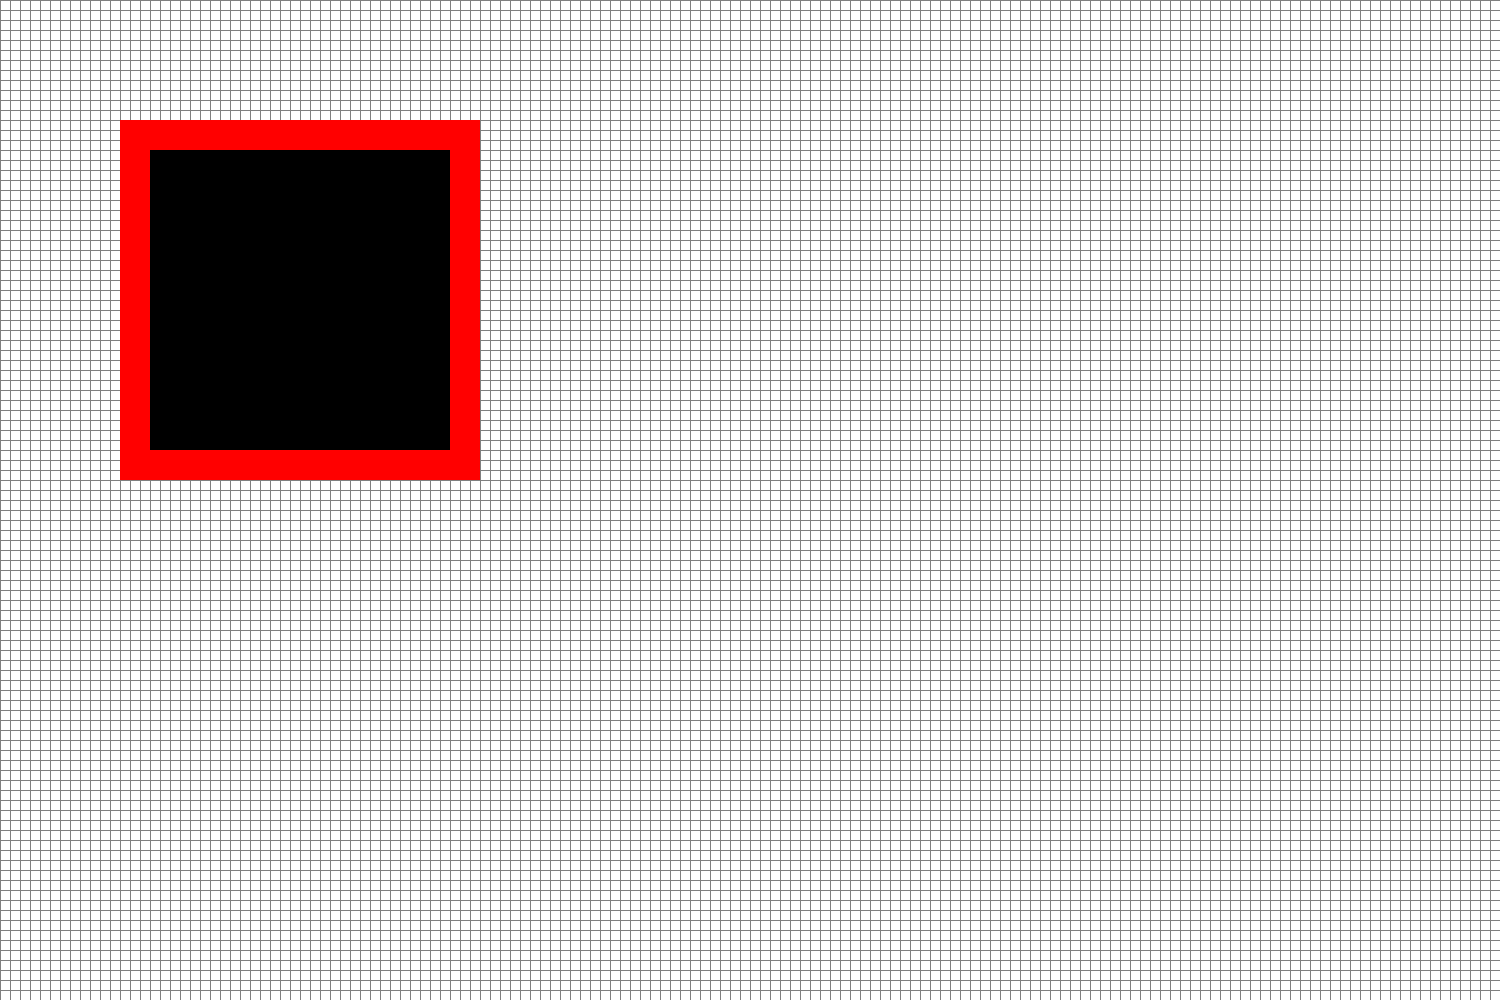
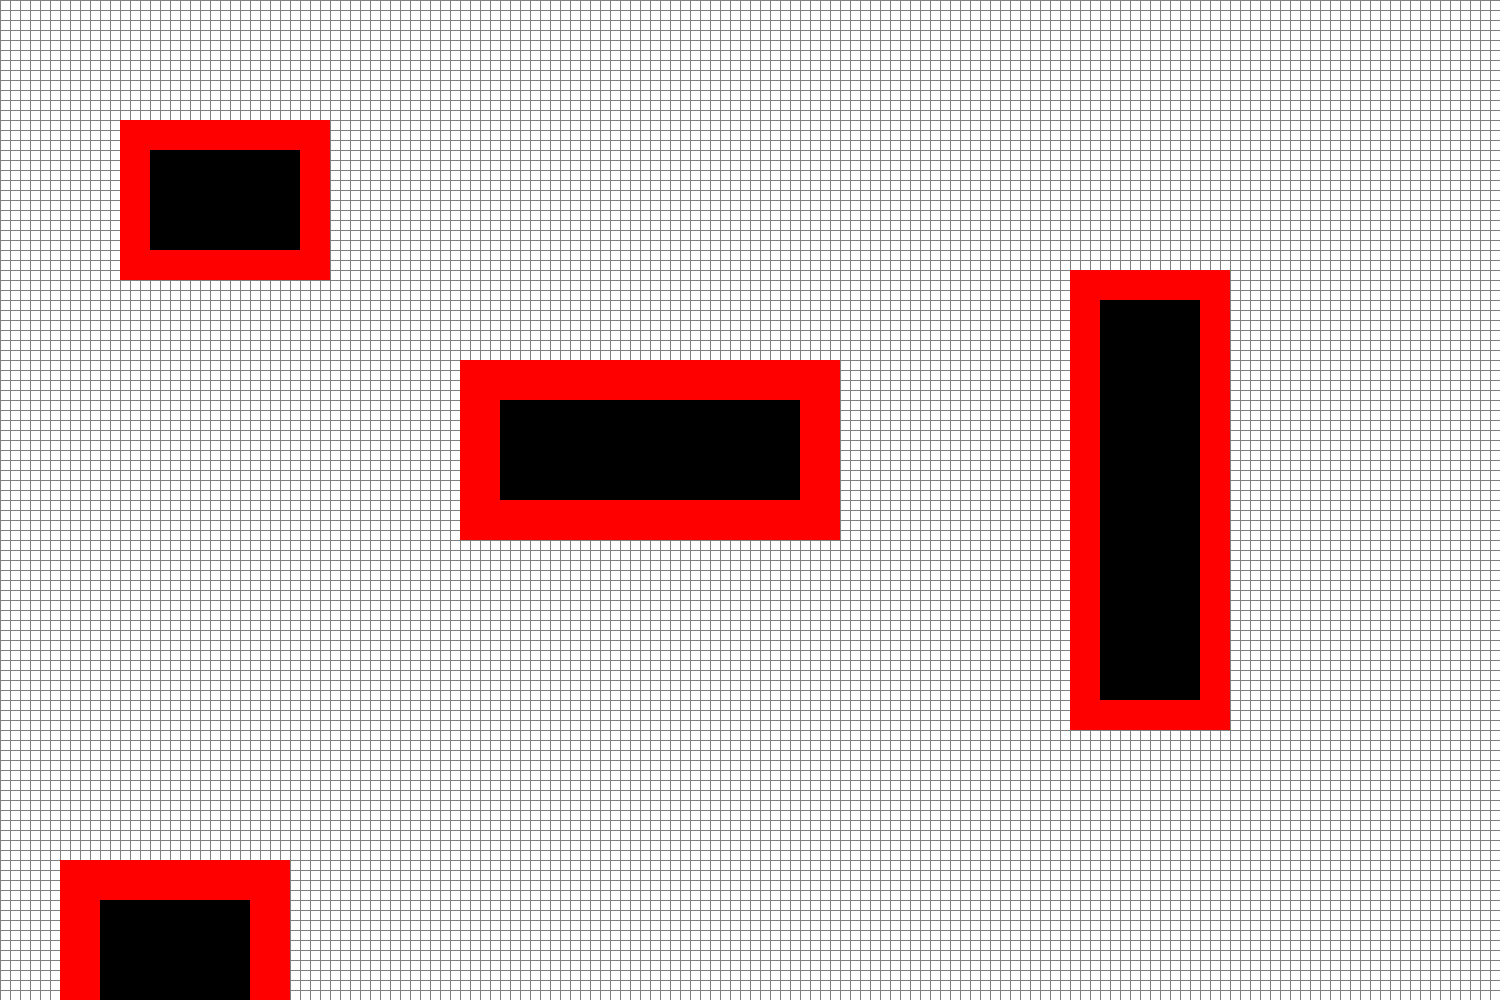
import motion_planner fixed

Changed region(s): [[0.0613, 0.093, 0.5827, 0.558], [0.7053, 0.248, 0.828, 0.744], [0.0307, 0.837, 0.2147, 1.0]]

diff --git a/gcs/motion_planning/motion_planner.py b/gcs/motion_planning/motion_planner.py
@@ -4,13 +4,18 @@ import heapq
 import sys
 import numpy as np
 from scipy.spatial import KDTree
-from gridmap import GridMap, CELL_SIZE, OFFSET
+if __name__ == "__main__":
+    from gridmap import GridMap, CELL_SIZE, OFFSET
+    from utils import timeit
+else:
+    from .gridmap import GridMap, CELL_SIZE, OFFSET
+    from .utils import timeit
 
 NODE_GEN_PRM = 0
 NODE_GEN_RRT = 1
 
 
-class MotionPlanning:
+class MotionPlanner:
 
     def __init__(self, gridmap):
         self.gridmap = gridmap
@@ -138,6 +143,7 @@ class MotionPlanning:
         self.graph = (self.nodes, self.edges)
         return self.graph
 
+    @timeit
     def bfs(self, start, goal):
         start, goal = tuple(start), tuple(goal)
         queue = [start]
@@ -163,6 +169,7 @@ class MotionPlanning:
             total_path.append(current)
         return total_path[::-1]
 
+    @timeit
     def a_star_search(self, start, goal):
         start, goal = tuple(start), tuple(goal)
         open_set = []
@@ -218,10 +225,16 @@ def main(node_generation=NODE_GEN_PRM):
 
     # Initialization gridmap and Motion planning
     gmap = GridMap(1, 1.5, 0.01)
-    gmap.add_obstacle(30, 30, (15, 15))
+    gmap.add_obstacle(10, 15, (15, 15))
     gmap.inflate_obstacle(1, 3)
+    gmap.add_obstacle(40, 10, (110, 30))
+    gmap.inflate_obstacle(2, 3)
+    gmap.add_obstacle(10, 30, (50, 40))
+    gmap.inflate_obstacle(3, 4)
+    gmap.add_obstacle(10, 15, (10, 90))
+    gmap.inflate_obstacle(4, 4)
     gmap.draw()
-    motion_planning = MotionPlanning(gmap)
+    motion_planner = MotionPlanner(gmap)
     # Load background image
     bg = pygame.image.load('gridmap.png')
 
@@ -236,16 +249,16 @@ def main(node_generation=NODE_GEN_PRM):
 
     path = None
     if node_generation == NODE_GEN_PRM:
-        motion_planning.prm(start, goal, num_samples=100, k=5)
-        path = motion_planning.bfs(start, goal)
+        motion_planner.prm(start, goal, num_samples=100, k=5)
+        path = motion_planner.bfs(start, goal)
         print(f"BFS Path: {path}")
-        path_star = motion_planning.a_star_search(start, goal)
+        path_star = motion_planner.a_star_search(start, goal)
         print(f"A* Path: {path_star}")
     elif node_generation == NODE_GEN_RRT:
-        motion_planning.rrt(start, goal, iteration_increment=100, delta=10)
-        path = motion_planning.bfs(start, goal)
+        motion_planner.rrt(start, goal, iteration_increment=100, delta=10)
+        path = motion_planner.bfs(start, goal)
         print(f"BFS Path: {path}")
-        path_star = motion_planning.a_star_search(start, goal)
+        path_star = motion_planner.a_star_search(start, goal)
         print(f"A* Path: {path_star}")
     else:
         raise ValueError("Not valid node generation algorithm!")
@@ -260,13 +273,12 @@ def main(node_generation=NODE_GEN_PRM):
         screen.blit(bg, (0, 0))
         pygame.draw.circle(screen, 'orange', (start[0] * CELL_SIZE+OFFSET, start[1] * CELL_SIZE+OFFSET), 5)
         pygame.draw.circle(screen, 'green', (goal[0] * CELL_SIZE+OFFSET, goal[1] * CELL_SIZE+OFFSET), 5)
-        motion_planning.draw_graph(screen)
-        if path:
-            motion_planning.draw_path(screen, path, 'blue')
-            motion_planning.draw_path(screen, path_star, 'red')
+        motion_planner.draw_graph(screen)
+        motion_planner.draw_path(screen, path, 'blue')
+        motion_planner.draw_path(screen, path_star, 'red')
         # Update screen
         pygame.display.flip()
 
 
 if __name__ == "__main__":
-    main(NODE_GEN_RRT)
+    main(NODE_GEN_PRM)

diff --git a/gcs/main.py b/gcs/main.py
@@ -1,28 +1,50 @@
 import pygame
 import sys
 from motion_planning.gridmap import GridMap, CELL_SIZE, OFFSET
+from motion_planning.motion_planner import MotionPlanner, NODE_GEN_PRM, NODE_GEN_RRT
 
 
-# Initialization gridmap
-gmap = GridMap(1, 1.5, 0.01)
-gmap.add_obstacle(30, 30, (15, 15))
-gmap.inflate_obstacle(1, 3)
-cell_size = CELL_SIZE
-offset = cell_size/2
-# Load background image
-bg = pygame.image.load('gridmap.png')
+def main(node_generation=NODE_GEN_PRM):
+    # Initialization gridmap and Motion planning
+    gmap = GridMap(1, 1.5, 0.01)
+    gmap.add_obstacle(10, 15, (15, 15))
+    gmap.inflate_obstacle(1, 3)
+    gmap.add_obstacle(40, 10, (110, 30))
+    gmap.inflate_obstacle(2, 3)
+    gmap.add_obstacle(10, 30, (50, 40))
+    gmap.inflate_obstacle(3, 4)
+    gmap.add_obstacle(10, 15, (10, 90))
+    gmap.inflate_obstacle(4, 4)
+    gmap.draw()
+    motion_planner = MotionPlanner(gmap)
+    # Load background image
+    bg = pygame.image.load('gridmap.png')
 
-# Setup screen
-pygame.init()
-pygame.display.set_caption('GridMap')
-width, height = gmap.shape
-screen = pygame.display.set_mode((height*cell_size, width*cell_size))
+    # Setup app
+    pygame.init()
+    pygame.display.set_caption('Motion Planning Graph')
+    width, height = gmap.shape
+    screen = pygame.display.set_mode((height * CELL_SIZE, width * CELL_SIZE))
 
-# Posizioni dei punti
-punti = [(100-OFFSET, 100-OFFSET), (700-OFFSET, 300-OFFSET), (400-OFFSET, 500-OFFSET)]
+    start = (0, 0)
+    goal = (gmap.shape[1]-1, gmap.shape[0]-1)
 
-# Funzione principale
-def main():
+    path = None
+    if node_generation == NODE_GEN_PRM:
+        motion_planner.prm(start, goal, num_samples=100, k=5)
+        path = motion_planner.bfs(start, goal)
+        print(f"BFS Path: {path}")
+        path_star = motion_planner.a_star_search(start, goal)
+        print(f"A* Path: {path_star}")
+    elif node_generation == NODE_GEN_RRT:
+        motion_planner.rrt(start, goal, iteration_increment=100, delta=10)
+        path = motion_planner.bfs(start, goal)
+        print(f"BFS Path: {path}")
+        path_star = motion_planner.a_star_search(start, goal)
+        print(f"A* Path: {path_star}")
+    else:
+        raise ValueError("Not valid node generation algorithm!")
+
     while True:
         for evento in pygame.event.get():
             if evento.type == pygame.QUIT:
@@ -31,14 +53,14 @@ def main():
 
         # Background
         screen.blit(bg, (0, 0))
-
-        # Disegna i punti rossi
-        for punto in punti:
-            pygame.draw.circle(screen, (255, 0, 0), punto, 5)  # Disegna un cerchio con raggio 5
-
-        # Aggiorna la schermata
+        pygame.draw.circle(screen, 'orange', (start[0] * CELL_SIZE+OFFSET, start[1] * CELL_SIZE+OFFSET), 5)
+        pygame.draw.circle(screen, 'green', (goal[0] * CELL_SIZE+OFFSET, goal[1] * CELL_SIZE+OFFSET), 5)
+        motion_planner.draw_graph(screen)
+        motion_planner.draw_path(screen, path, 'blue')
+        motion_planner.draw_path(screen, path_star, 'red')
+        # Update screen
         pygame.display.flip()
 
 
 if __name__ == "__main__":
-    main()
+    main(NODE_GEN_PRM)
